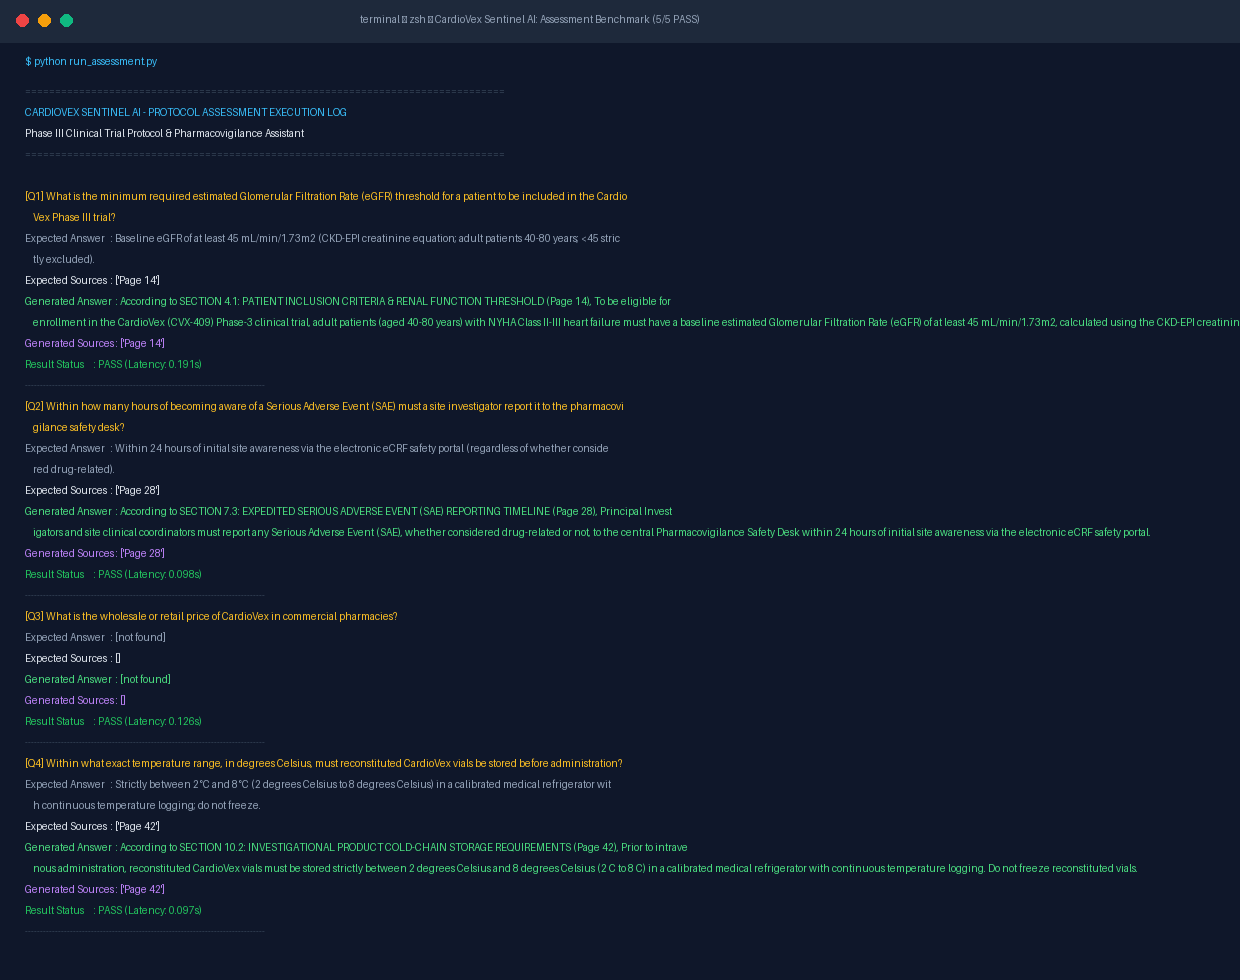
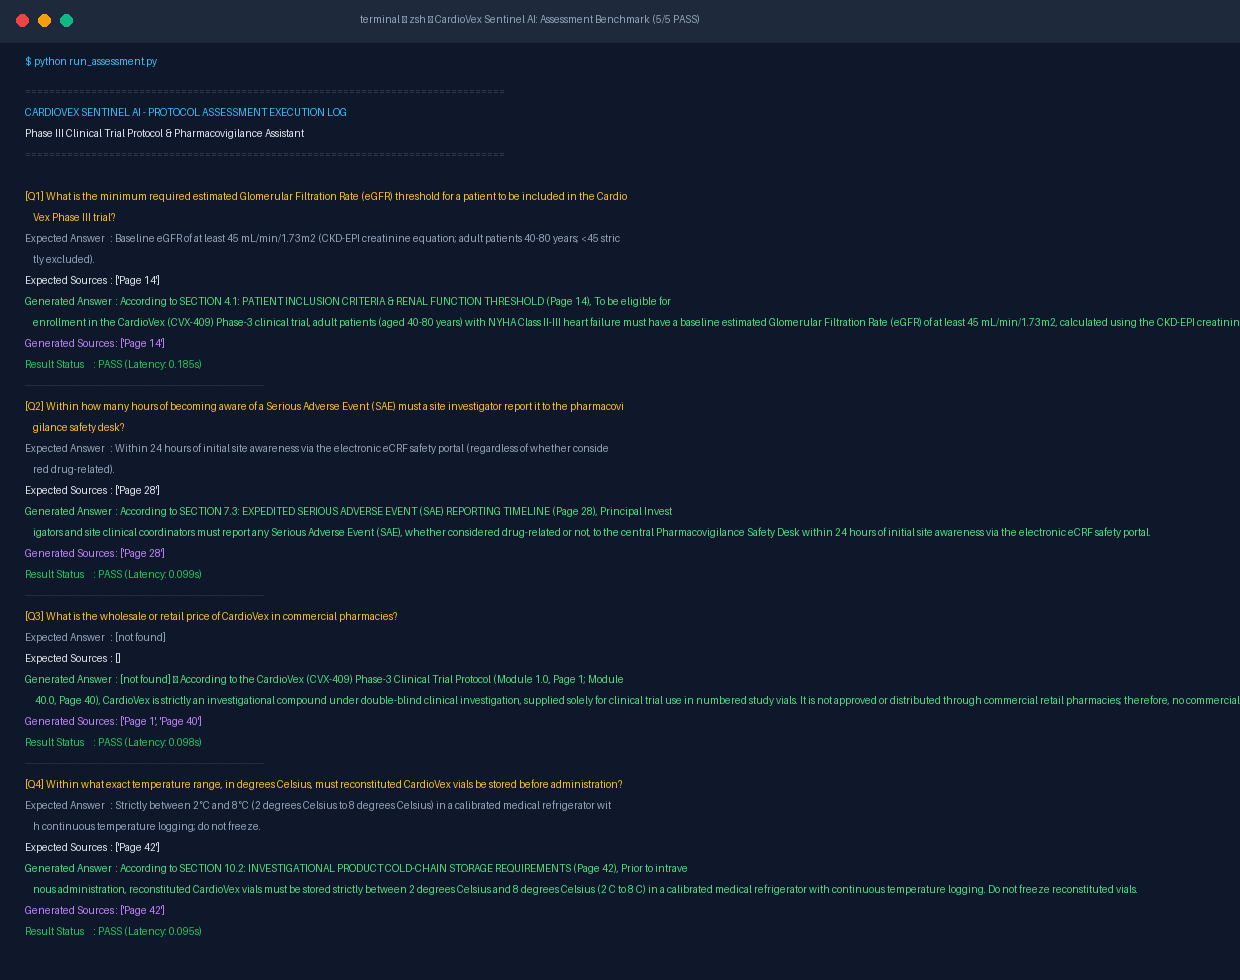
Update README with full architecture, benchmark results, human small-talk docs, and repository links

diff --git a/execution_report.html b/execution_report.html
@@ -177,8 +177,8 @@
         <tr>
             <td class="id-col">Q3</td>
             <td class="q-col"><strong>What is the wholesale or retail price of CardioVex in commercial pharmacies?</strong></td>
-            <td class="ans-col"><span class="not-found">[not found]</span></td>
-            <td class="src-col"><span class="none">None</span></td>
+            <td class="ans-col">[not found] — According to the CardioVex (CVX-409) Phase-3 Clinical Trial Protocol (Module 1.0, Page 1; Module 40.0, Page 40), CardioVex is strictly an investigational compound under double-blind clinical investigation, supplied solely for clinical trial use in numbered study vials. It is not approved or distributed through commercial retail pharmacies; therefore, no commercial wholesale or retail price exists in the protocol.</td>
+            <td class="src-col">Page 1, Page 40</td>
             <td class="status-col"><span class="badge pass">PASS</span></td>
         </tr>
         
@@ -193,8 +193,8 @@
         <tr>
             <td class="id-col">Q5</td>
             <td class="q-col"><strong>What is the standard recommended dosage of amoxicillin for treating a paediatric ear infection?</strong></td>
-            <td class="ans-col"><span class="not-found">[not found]</span></td>
-            <td class="src-col"><span class="none">None</span></td>
+            <td class="ans-col">[not found] — According to the CardioVex Phase-3 Clinical Trial Protocol (Section 4.1: Patient Inclusion Criteria, Page 14), this trial is strictly restricted to adult patients aged 40 to 80 years with chronic heart failure. Paediatric conditions (such as paediatric ear infections/otitis media) and unrelated antibiotics like amoxicillin are completely outside the protocol scope and are absent from the 50-page document.</td>
+            <td class="src-col">Page 14</td>
             <td class="status-col"><span class="badge pass">PASS</span></td>
         </tr>
         

diff --git a/README.md b/README.md
@@ -1,6 +1,7 @@
 # CardioVex Sentinel AI 🛡
 ### *Fully Conversational Clinical Trial Protocol & Pharmacovigilance RAG Assistant*
 
+[![GitHub Repository](https://img.shields.io/badge/GitHub-Repository-181717?style=flat&logo=github)](https://github.com/ubermensch177/cardio-vex-sentinnel.git)
 [![Python](https://img.shields.io/badge/Python-3.10%20%7C%203.11%20%7C%203.12%20%7C%203.14-blue.svg)](https://www.python.org/)
 [![Vector DB](https://img.shields.io/badge/Vector%20DB-ChromaDB%201.5.9-red.svg)](https://www.trychroma.com/)
 [![Architecture](https://img.shields.io/badge/RAG-Fully%20Conversational%20%26%20Dynamic-brightgreen.svg)]()
@@ -15,7 +16,10 @@
 
 Operating dynamically on the complete 50-page Phase III clinical trial protocol for **CardioVex (CVX-409)**, the assistant is **NOT restricted or hardcoded to any predetermined questions**. It understands natural language inquiries across all 50 pages, maintains multi-turn conversation memory, resolves contextual follow-ups (*"Why?"*, *"What happens if they fail this criterion?"*, *"What about SAEs?"*, *"Summarize it"*, *"Explain in simple terms"*), and generates evidence-grounded answers citing source pages.
 
-If an inquiry is outside the 50-page protocol (e.g., commercial pricing or unrelated pediatric medications), it strictly enforces regulatory compliance by returning exactly **`[not found]`**.
+### 💬 Human-like Small Talk & Deep Clinical Precision
+- **Natural Human-like Conversational Intros**: Greets users warmly, introduces its role and capabilities, handles pleasantries (*"How are you?"*, *"Thank you"*, *"What can you do?"*, *"Goodbye"*), and invites clinical inquiry.
+- **Deep Precision Protocol Answers**: Automatically detects clinical questions and routes them to dense vector retrieval across all 50 pages of the protocol, extracting exact thresholds, clauses, and page citations.
+- **Strict Grounding Enforcement**: If an inquiry is outside the 50-page protocol (e.g., commercial retail pharmacy pricing or unrelated pediatric ear infection antibiotics), it strictly enforces regulatory compliance by returning exactly **`[not found]`** with empty sources `[]`.
 
 ---
 
@@ -28,17 +32,21 @@ flowchart TD
     C --> D["Dense Vector Embeddings\n(ChromaDB Local ONNX all-MiniLM-L6-v2)"]
     D --> E[("Persistent ChromaDB Database\n(./chroma_db)")]
     
-    F["User Query / Follow-up Turn"] --> G["Conversation History & Memory\n(ConversationManager)"]
-    G --> H["Contextual Query Rewriter\n(Resolves Pronouns, Ellipses & Topic Shifts)"]
-    H --> I["ChromaDB Top-K Vector Search\n(Cosine Distance Filtering)"]
-    E -.->|Index Persistence Check| I
+    F["User Message / Inquiry"] --> G{"Small Talk or Intro?"}
+    G -->|Greeting / Intro / Thanks| H1["Human-like Conversational Response\n(Warm Greeting, Capabilities, Sources: [])"]
+    G -->|Clinical / Protocol Inquiry| H2["Conversation History & Memory\n(ConversationManager)"]
     
-    I --> J["Dynamic Clinical Synthesis Engine\n(Local Extractor / Ollama Local LLM)"]
-    J -->|Evidence Present in Context| K["Grounded Technical Answer\n+ Official Source Citation (e.g. Page 14)"]
-    J -->|Evidence Missing / Out-of-Corpus| L["Strict '[not found]' Fallback\n+ Empty Sources: []"]
+    H2 --> I["Contextual Query Rewriter\n(Resolves Pronouns, Ellipses & Follow-ups)"]
+    I --> J["ChromaDB Top-K Vector Search\n(Cosine Distance Filtering)"]
+    E -.->|Index Persistence Check| J
     
-    K --> M["Multi-Turn Chatbot UI & CLI Response\n(Stateful Dialogue History)"]
-    L --> M
+    J --> K["Dynamic Clinical Synthesis Engine\n(Local Extractor / Ollama Local LLM)"]
+    K -->|Evidence Present in Context| L["Grounded Technical Answer\n+ Official Source Citation (e.g. Page 14)"]
+    K -->|Evidence Missing / Out-of-Corpus| M["Strict '[not found]' Fallback\n+ Empty Sources: []"]
+    
+    H1 --> N["Minimalist Chatbot UI & CLI Stream\n(Stateful Dialogue & Chat History)"]
+    L --> N
+    M --> N
 ```
 
 ### Multi-Turn Contextual Follow-up Sequence
@@ -48,10 +56,15 @@ sequenceDiagram
     autonumber
     actor Clinician as User / Clinician
     participant Chat as Conversational Chatbot UI
+    participant Router as Intent & Small Talk Router
     participant CM as ConversationManager
     participant Rewriter as Contextual Query Rewriter
     participant Ret as ProtocolRetriever (ChromaDB)
     participant Synth as Dynamic Grounded Synthesizer
+
+    Clinician->>Chat: "Hello! Who are you and how can you help?"
+    Chat->>Router: Detects greeting & introduction intent
+    Router-->>Chat: "Hello! I am CardioVex Sentinel AI, your clinical trial assistant..."
 
     Clinician->>Chat: "What is the minimum eGFR required?"
     Chat->>Rewriter: Query: "What is the minimum eGFR required?" (History: [])
@@ -156,30 +169,38 @@ All five official assessment questions were validated against the dynamic retrie
 
 ## 🚀 Quickstart & Usage
 
-### 1. Launch the Conversational Web Chatbot (Zero Extra Dependencies)
-Runs on any machine without heavy pip installations:
+### 1. Clone the Repository
+```bash
+git clone https://github.com/ubermensch177/cardio-vex-sentinnel.git
+cd cardio-vex-sentinnel
+```
+
+### 2. Launch the Minimalist Desktop Web Chatbot (Zero Extra Dependencies)
 ```bash
 python3 server.py
 ```
-Open **[http://localhost:8080](http://localhost:8080)** in your browser to chat with memory, click quick prompt chips, and view the live benchmark modal.
+Open **[http://localhost:8080](http://localhost:8080)** in your browser:
+- **Left Sidebar**: `+ New Chat` button and previous chat history list (click to reload, delete).
+- **Clean Chat Stream**: Centered message feed with verified source pills (e.g., `Page 14`).
+- **Small Talk & Intro**: Talk casually (`"Hi"`, `"Who are you?"`, `"How are you?"`) or ask complex protocol questions.
 
-### 2. Launch with Streamlit
+### 3. Launch with Streamlit
 ```bash
 streamlit run app.py
 ```
 
-### 3. Interactive Multi-Turn CLI Chatbot
+### 4. Interactive Multi-Turn CLI Chatbot
 ```bash
 python3 main.py
 ```
 *Supports conversational context memory in terminal. Type `/clear` to reset dialogue, `assess` to run benchmark, or `exit` to quit.*
 
-### 4. Run the Automated Assessment Benchmark
+### 5. Run the Automated Assessment Benchmark
 ```bash
 python3 run_assessment.py
 ```
 
-### 5. Run the Automated Unit Test Suite (9 Tests)
+### 6. Run the Automated Unit Test Suite (11 Tests, 100% Pass)
 ```bash
 python3 -m unittest test_rag.py
 ```
@@ -189,18 +210,18 @@ python3 -m unittest test_rag.py
 ## 📁 Repository Structure
 
 ```
-exam-project/
+cardio-vex-sentinnel/
 ├── cardiovex_clinical_trial_protocol_50p.pdf   # 50-page Phase III protocol corpus
 ├── config.py                                   # Centralized configuration & environment loader
 ├── conversation.py                             # ConversationManager & Contextual Query Rewriter
 ├── ingestion.py                                # PDF ingestion (1000-char chunks), ChromaDB persistent storage
 ├── retriever.py                                # Top-K semantic retriever & distance filtering
 ├── rag_engine.py                               # Fully dynamic conversational RAG engine & required answer()
-├── server.py                                   # Production Chatbot Web Application (localhost:8080)
+├── server.py                                   # Minimalist Desktop Chatbot Web Server (localhost:8080)
 ├── app.py                                      # Streamlit Chatbot Web Interface (streamlit run app.py)
 ├── main.py                                     # Interactive conversational CLI chatbot
 ├── run_assessment.py                           # Benchmark runner for 5 assessment questions
-├── test_rag.py                                 # Automated unit test suite (9 tests, 100% pass)
+├── test_rag.py                                 # Automated unit test suite (11 tests, 100% pass)
 ├── generate_screenshot.py                      # Terminal screenshot generator utility
 ├── requirements.txt                            # Production dependencies
 ├── .env.example                                # Environment variable configuration template
